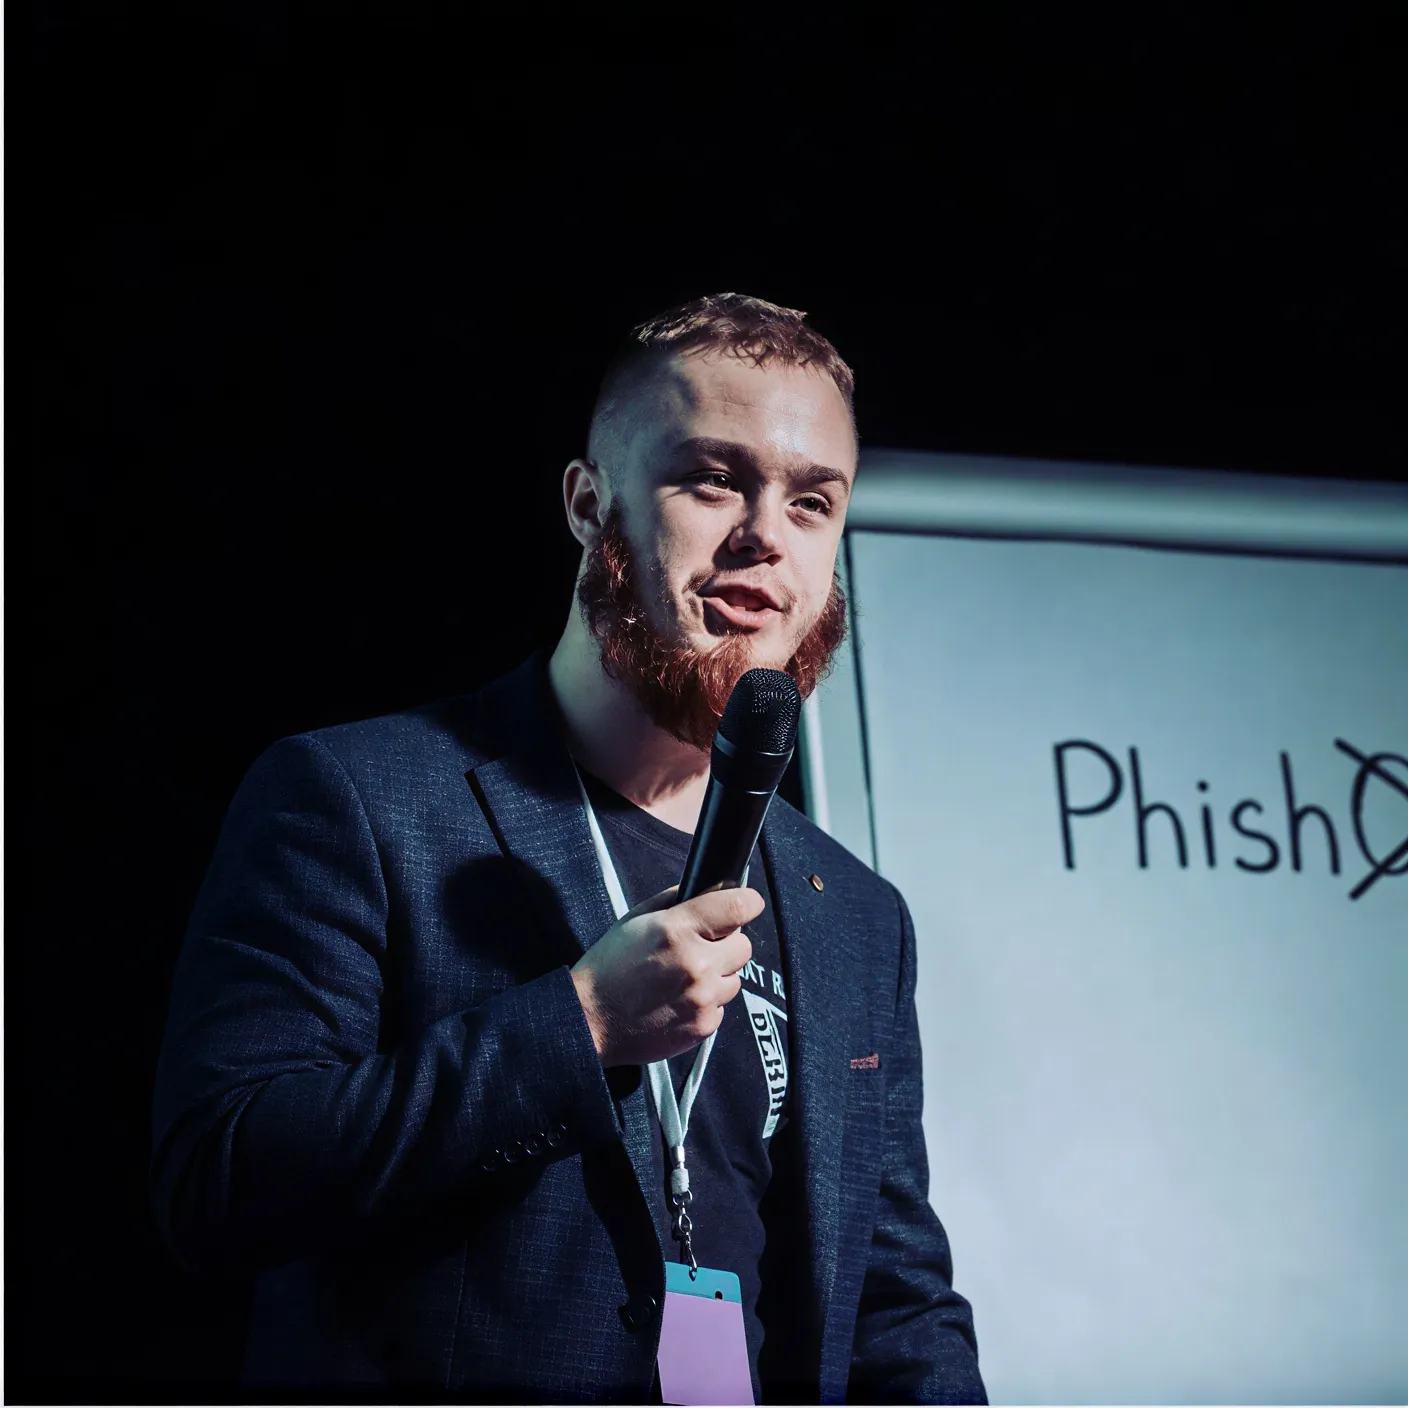
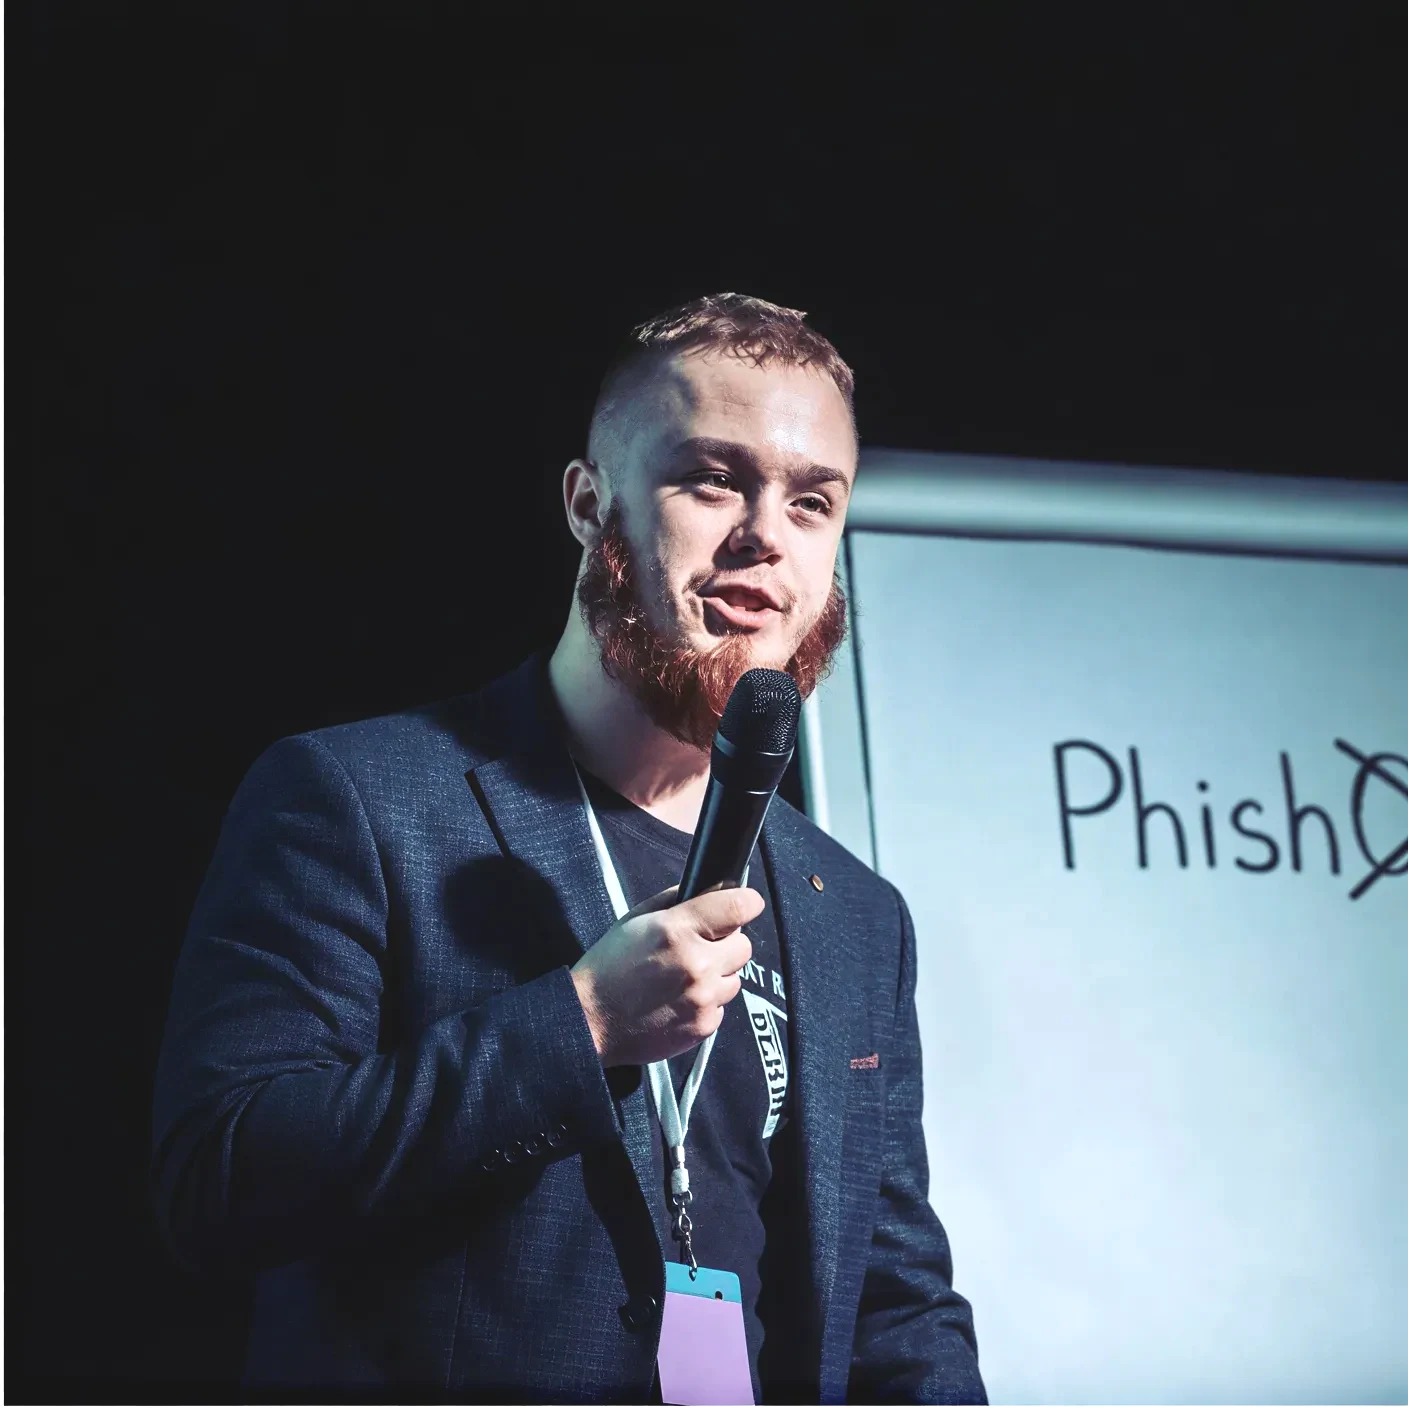
style(ui): expertise copy/contrast, hero borders, drop PGP nav link

diff --git a/src/components/Expertise.tsx b/src/components/Expertise.tsx
@@ -1,8 +1,10 @@
-import { Code, Shield, Eye, MapPin } from 'lucide-react';
+import React from 'react';
+import { Code, Shield, Eye, MapPin, Award } from 'lucide-react';
 import { useTranslation } from '../i18n';
 
 export default function Expertise() {
   const { t } = useTranslation();
+  const [imgFailed, setImgFailed] = React.useState(false);
 
   const expertiseItems = [
     {
@@ -35,25 +37,39 @@ export default function Expertise() {
           <div className="animate-fade-in">
             <div className="relative">
               {/* Image Container */}
-              <div className="relative aspect-[3/4] rounded-3xl overflow-hidden">
+              <div className="relative aspect-[3/4] rounded-3xl overflow-hidden ring-1 ring-white/10">
                 <div className="absolute inset-0 bg-gradient-to-br from-slate-800 to-slate-900" />
-                <img
-                  src="/expert.webp"
-                  alt="Tom Kristian Abel - Founder and Security Consultant at ProksiAbel OÜ"
-                  className="object-cover w-full h-full"
-                  loading="lazy"
-                  decoding="async"
-                />
+                {imgFailed ? (
+                  <div className="absolute inset-0 flex flex-col items-center justify-center gap-3">
+                    <Shield className="h-12 w-12 text-sky-500/60" aria-hidden="true" />
+                    <span className="text-sm text-slate-400">{t.expertise.name}</span>
+                  </div>
+                ) : (
+                  <img
+                    src="/expert.webp"
+                    alt="Tom Kristian Abel - Founder and Security Consultant at ProksiAbel OÜ"
+                    className="object-cover w-full h-full"
+                    loading="lazy"
+                    decoding="async"
+                    onError={() => setImgFailed(true)}
+                  />
+                )}
                 {/* Overlay */}
                 <div className="absolute inset-0 bg-gradient-to-t from-slate-900 via-transparent to-transparent" />
               </div>
             </div>
 
-            {/* Location & Photo Credit */}
-            <div className="flex items-center justify-between mt-6 px-2">
-              <div className="flex items-center gap-2 text-sm text-slate-400">
-                <MapPin className="h-4 w-4" />
-                <span>{t.expertise.location}</span>
+            {/* Credentials Row */}
+            <div className="mt-6 flex flex-wrap items-center justify-between gap-3 px-2">
+              <div className="flex flex-wrap items-center gap-3">
+                <span className="inline-flex items-center gap-1.5 rounded-full border border-sky-500/20 bg-sky-500/10 px-3 py-1 text-sm font-medium text-sky-300">
+                  <Award className="h-4 w-4" aria-hidden="true" />
+                  {t.expertise.experience}
+                </span>
+                <span className="inline-flex items-center gap-2 text-sm text-slate-400">
+                  <MapPin className="h-4 w-4" aria-hidden="true" />
+                  {t.expertise.location}
+                </span>
               </div>
               <p className="text-xs text-slate-400">{t.expertise.photoCredit}</p>
             </div>
@@ -63,12 +79,12 @@ export default function Expertise() {
           <div className="animate-slide-up stagger-2">
             {/* Header */}
             <div className="mb-8">
-              <div className="accent-line mb-4" />
-              <h2 className="heading-2 mb-2">{t.expertise.title}</h2>
-              <div className="flex flex-col sm:flex-row sm:items-center gap-2 sm:gap-4">
+              <h2 className="heading-2 mb-3">{t.expertise.title}</h2>
+              <div className="flex flex-wrap items-center gap-3">
                 <h3 className="text-2xl font-bold text-sky-400">{t.expertise.name}</h3>
-                <span className="hidden sm:block w-px h-6 bg-slate-700" />
-                <p className="text-lg text-slate-300">{t.expertise.role}</p>
+                <span className="inline-flex items-center rounded-full border border-sky-500/30 bg-sky-500/10 px-3 py-1 text-sm font-medium text-sky-300">
+                  {t.expertise.role}
+                </span>
               </div>
             </div>
 
@@ -87,14 +103,14 @@ export default function Expertise() {
               {expertiseItems.map((item) => (
                 <div 
                   key={item.title}
-                  className="group flex items-start gap-4 p-5 rounded-xl bg-slate-800/50 border border-slate-700/50 hover:border-sky-500/30 hover:bg-slate-800 transition-all duration-300"
+                  className="group flex items-start gap-4 p-5 rounded-xl bg-slate-800/50 border border-slate-600/50 hover:border-sky-500/30 hover:bg-slate-800 transition-all duration-300"
                 >
                   <div className="flex-shrink-0 w-12 h-12 rounded-xl bg-gradient-to-br from-sky-500/20 to-teal-500/20 flex items-center justify-center group-hover:from-sky-500/30 group-hover:to-teal-500/30 transition-all duration-300">
                     <item.icon className="h-6 w-6 text-sky-400" />
                   </div>
                   <div>
                     <h4 className="font-semibold text-white mb-1">{item.title}</h4>
-                    <p className="text-slate-400 text-sm">{item.description}</p>
+                    <p className="text-slate-300 text-sm">{item.description}</p>
                   </div>
                 </div>
               ))}

diff --git a/src/components/Hero.tsx b/src/components/Hero.tsx
@@ -98,7 +98,7 @@ export default function Hero() {
                     return (
                       <div 
                         key={service.title}
-                        className="group flex items-center gap-4 p-4 rounded-xl bg-slate-800/50 border border-slate-700/50 hover:border-sky-500/30 hover:bg-slate-800/50 transition-all duration-300"
+                        className="group flex items-center gap-4 p-4 rounded-xl bg-slate-800/50 border border-slate-600/50 hover:border-sky-500/30 hover:bg-slate-800/50 transition-all duration-300"
                       >
                         <div className="w-12 h-12 rounded-xl bg-gradient-to-br from-sky-500/20 to-teal-500/20 flex items-center justify-center">
                           <Icon className="h-6 w-6" />
@@ -107,7 +107,7 @@ export default function Hero() {
                           <h3 className="font-semibold text-white group-hover:text-sky-400 transition-colors">
                             {service.title}
                           </h3>
-                          <p className="text-sm text-slate-400 line-clamp-2">
+                          <p className="text-sm text-slate-300 line-clamp-2">
                             {service.heroDescription}
                           </p>
                         </div>

diff --git a/src/components/Navbar.tsx b/src/components/Navbar.tsx
@@ -54,7 +54,6 @@ export default function Navbar() {
     { href: '/#expertise', label: t.nav.expertise },
     { href: '/#about', label: t.nav.about },
     { href: '/#contact', label: t.nav.contact },
-    { href: '/#pgp', label: t.nav.pgpKey },
   ];
 
   return (
